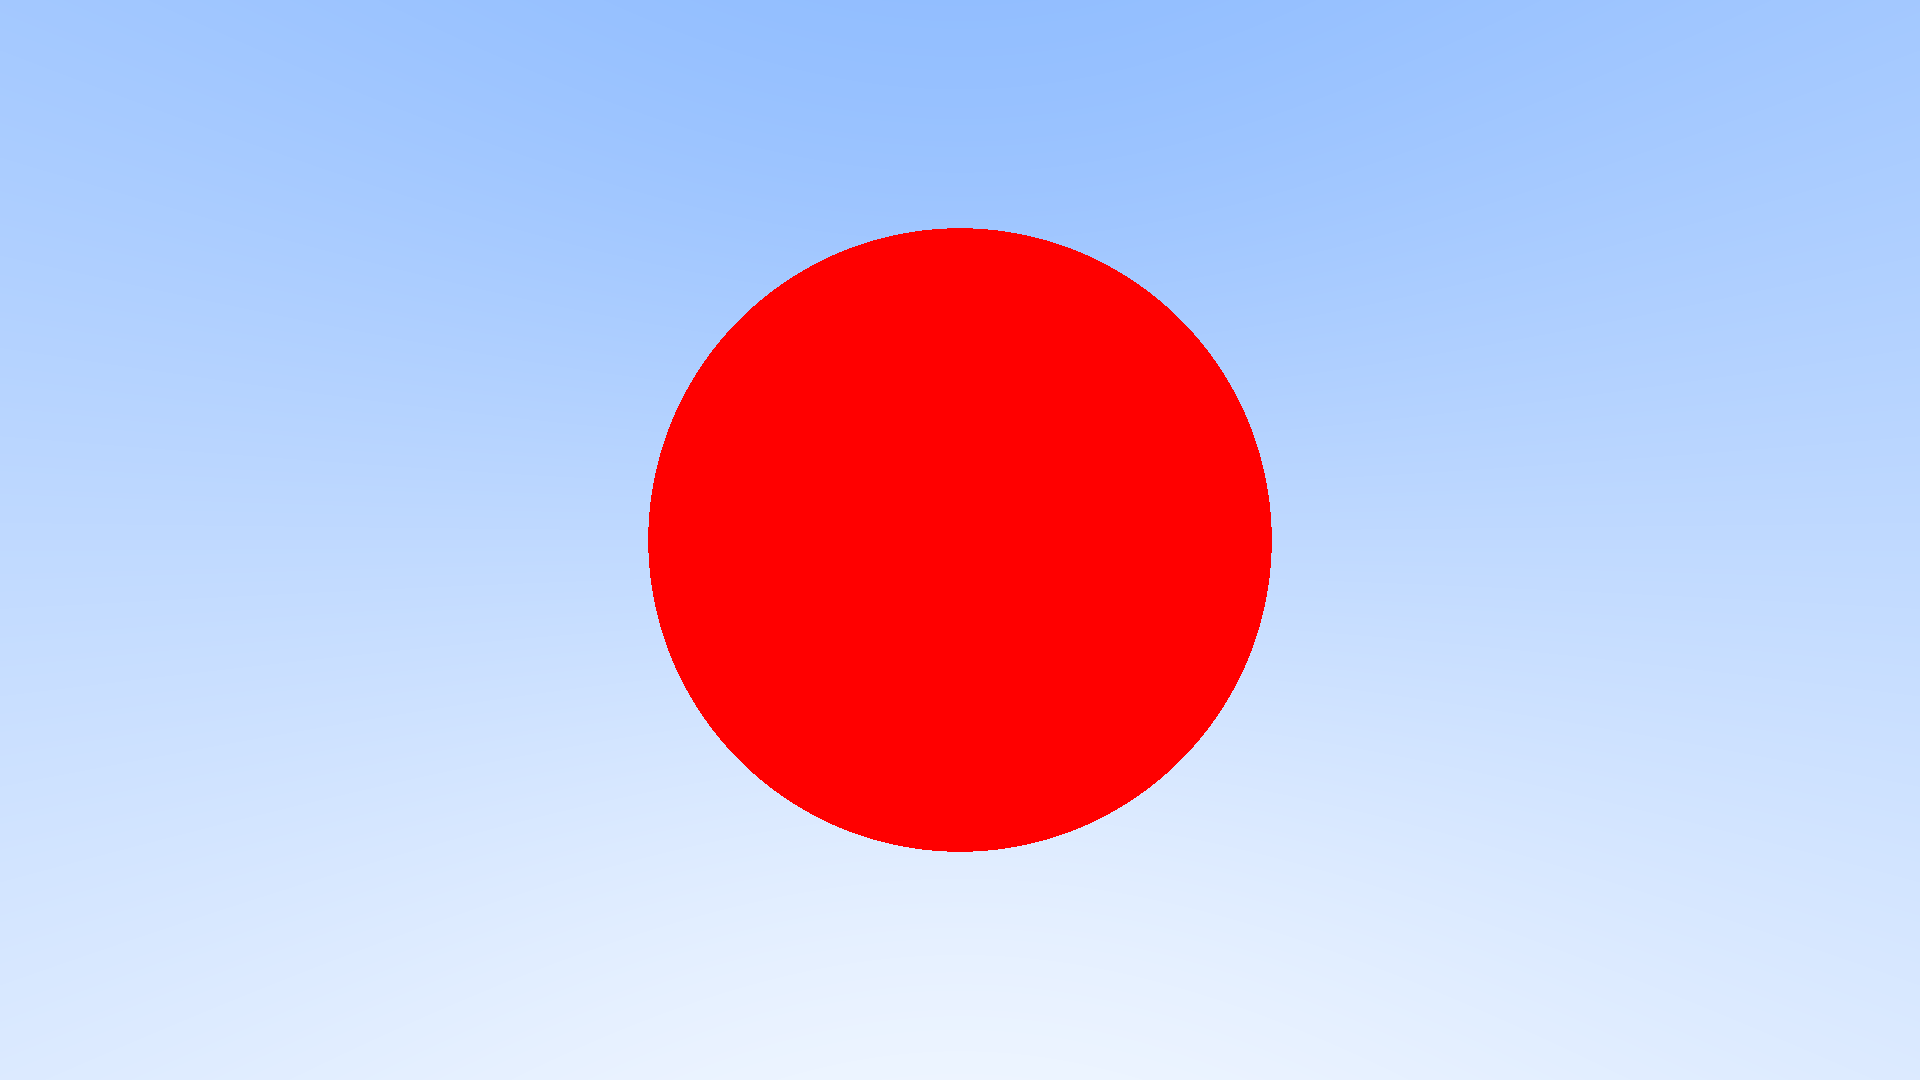
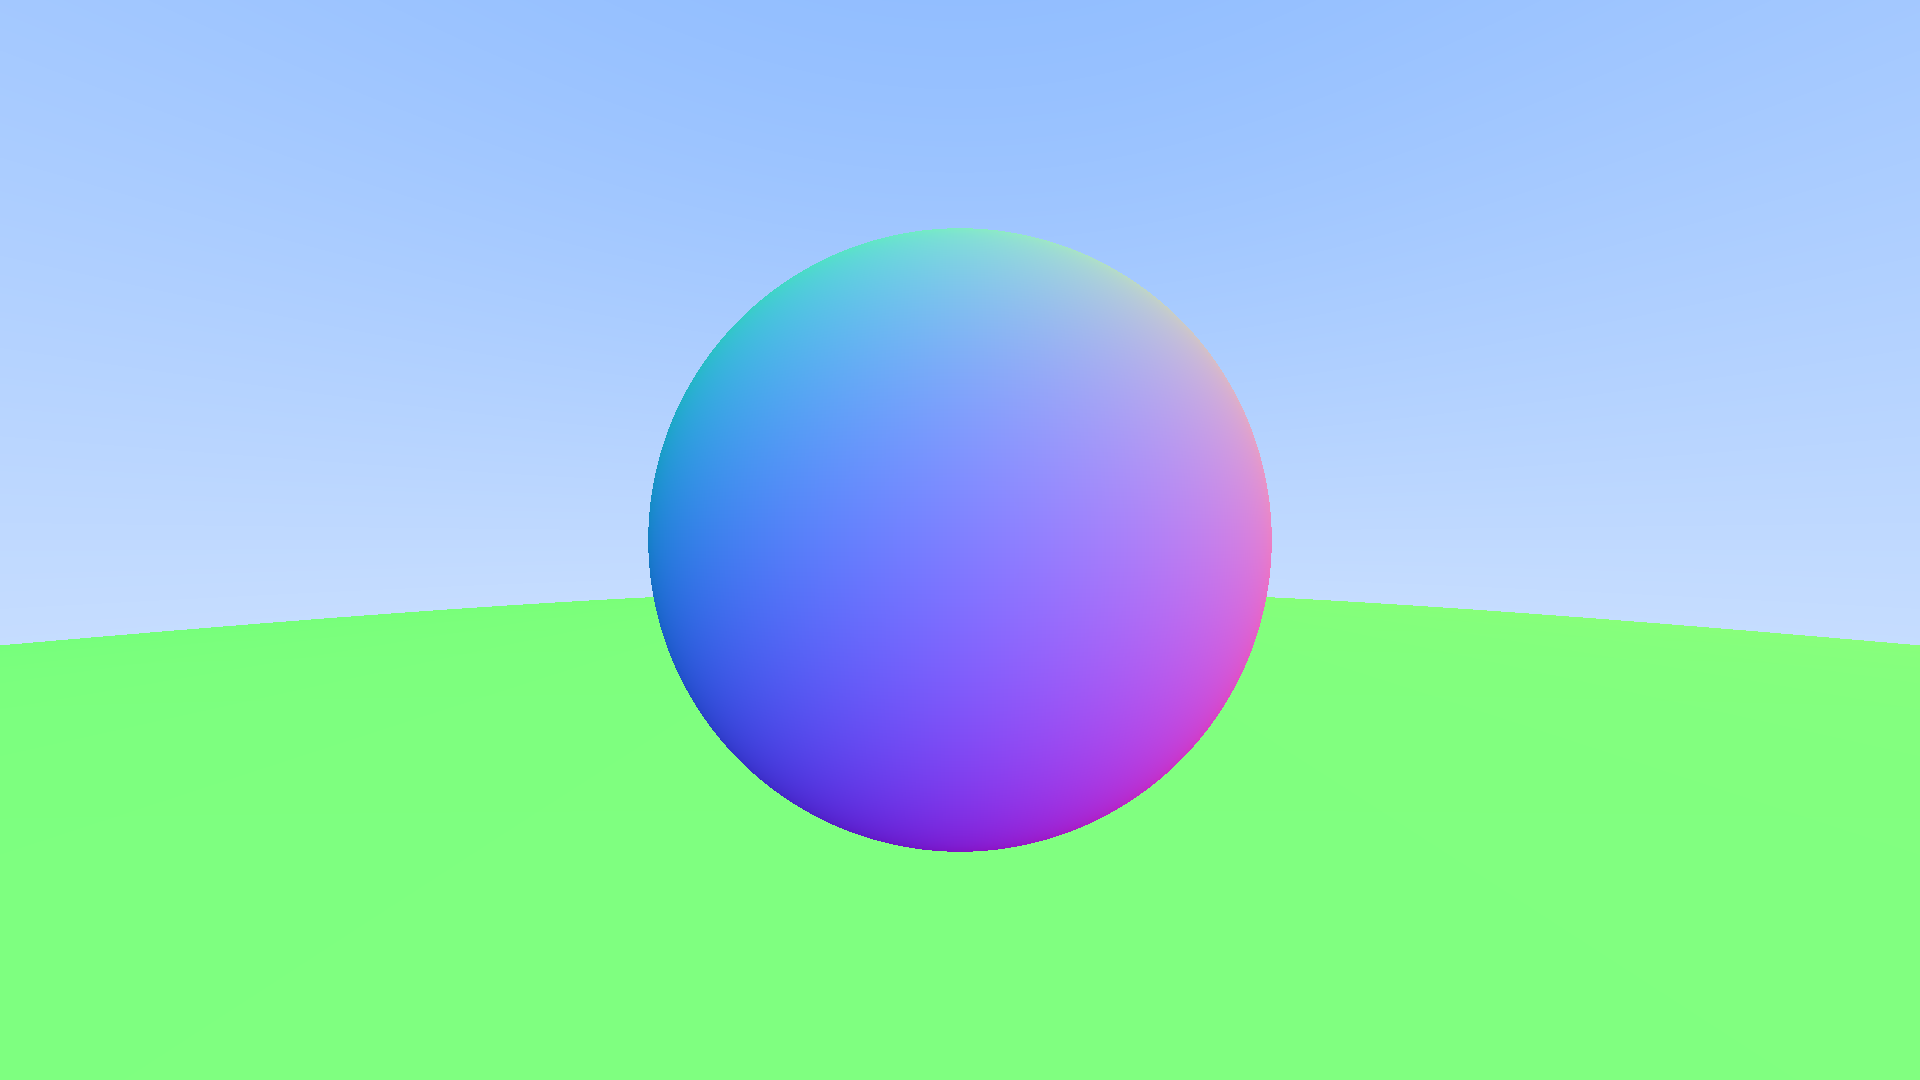
v0.2完善了求交检测逻辑，增加了物体列表，可以向场景中添加多个物体，对代码逻辑进行了重构

diff --git a/src/main.cpp b/src/main.cpp
@@ -1,22 +1,14 @@
 #define STB_IMAGE_WRITE_IMPLEMENTATION
-#include <iostream>
-#include <vector>
 
-#include "color.h"
-#include "Ray.h"
-#include "stb_image_write.h"
+#include "common.h"
+#include "Hit.h"
+#include "HittableList.h"
+#include "Sphere.h"
 
-bool hit_sphere(const Point3& center, double radius, const Ray& r) {
-    Vec3 oc = center - r.origin();
-    auto a = dot(r.direction(), r.direction());
-    auto b = -2.0 * dot(oc, r.direction());
-    auto c = dot(oc, oc) - radius * radius;
-    return b * b - 4 * a * c >= 0;
-}
-
-Color ray_color(const Ray& r) {
-    if (hit_sphere(Point3(0, 0, -1), 0.5, r)) {
-        return {1, 0, 0};
+Color ray_color(const Ray& r, const Hittable& world) {
+    HitLoad rec;
+    if (world.hit(r, Interval(0, INF), rec)) {
+        return 0.5 * (rec.n + Color(1, 1, 1));
     }
     Vec3 normal_dir = normalize(r.direction());
     auto a = 0.5 * (normal_dir.y() + 1.0);
@@ -29,6 +21,12 @@ int main() {
     int image_width = 1920;
     int image_height = static_cast<int>(image_width / aspect_ratio);
     image_height = (image_height < 1) ? 1: image_height;
+
+    //World
+    HittableList world;
+
+    world.add(make_shared<Sphere>(Point3(0, 0, -1), 0.5));
+    world.add(make_shared<Sphere>(Point3(0, -100.5, -1), 100));
 
     //Camera
     auto focal_length = 1.0;
@@ -56,14 +54,14 @@ int main() {
             Vec3 ray_direction = pixel_center - camera_center;
 
             Ray r(camera_center, ray_direction);
-            Color pixel_color = ray_color(r);
+            Color pixel_color = ray_color(r, world);
             int index = (j * image_width + i) * 3;
             image[index] = static_cast<unsigned char>(255.999 * pixel_color.x());
             image[index + 1] = static_cast<unsigned char>(255.999 * pixel_color.y());
             image[index + 2] = static_cast<unsigned char>(255.999 * pixel_color.z());
         }
     }
-    stbi_write_png("result/image.png", image_width, image_height, 3, image.data(), image_width * 3);
+    stbi_write_png("image.png", image_width, image_height, 3, image.data(), image_width * 3);
     std::clog << "\rDone.        \n";
     return 0;
 

diff --git a/src/world/HittableList.h b/src/world/HittableList.h
@@ -1,0 +1,40 @@
+//
+// Created by $yujinxiang on 2025/1/14.
+//
+
+#ifndef HITTABLELIST_H
+#define HITTABLELIST_H
+
+#include "common.h"
+#include "Hit.h"
+
+#include <memory>
+#include <vector>
+
+
+class HittableList : public Hittable {
+public:
+    HittableList() = default;
+    explicit HittableList(const shared_ptr<Hittable>& object) { add(object); }
+    HittableList(std::initializer_list<shared_ptr<Hittable>> list);
+
+    void add(const shared_ptr<Hittable>& object);
+    void clear();
+
+    /*
+     * 判断光线是否与列表中的物体相交, 如果有相交的物体返回true；
+     * param:
+     * @r: 光线
+     * @t_min: 相交区间最小值
+     * @t_max: 相交区间最大值
+     * @rec: 光线与物体相交时的信息载体
+     */
+    bool hit(const Ray& r, const Interval &tRay, HitLoad &rec) const override;
+
+private:
+    std::vector<shared_ptr<Hittable>> objects;
+};
+
+
+
+#endif //HITTABLELIST_H

diff --git a/src/world/Hit.h b/src/world/Hit.h
@@ -1,0 +1,32 @@
+//
+// Created by $yujinxiang on 2025/1/14.
+//
+
+#ifndef HIT_H
+#define HIT_H
+
+#include "common.h"
+
+struct HitLoad {
+    Point3 p;        //hit point
+    Vec3 n;          //normal vector
+    double t = 0.0;
+    bool front_face;      // 判断光线从物体外来还是从物体内来
+
+    void set_face_normal(const Ray& r, const Vec3& outward_normal) {
+        front_face = dot(r.direction(), outward_normal) < 0;
+        n = front_face ? outward_normal : -outward_normal;   //假定法线方向垂直于物体表面向外，光线从外来则法线方向不变，光线从内来则法线方向取反
+    }
+};
+
+/*
+    * Hittable class：定义光线与物体碰撞的函数接口
+*/
+class Hittable {
+public:
+    virtual ~Hittable() = default;
+    virtual bool hit(const Ray& r, const Interval& tRay, HitLoad &rec) const = 0;
+
+};
+
+#endif //HIT_H

diff --git a/src/world/HittableList.cpp b/src/world/HittableList.cpp
@@ -1,0 +1,36 @@
+//
+// Created by $yujinxiang on 2025/1/14.
+//
+
+#include "HittableList.h"
+
+HittableList::HittableList(const std::initializer_list<shared_ptr<Hittable>> list) {
+    for (auto& obj: list) {
+        add(obj);
+    }
+}
+
+void HittableList::add(const shared_ptr<Hittable>& object) {
+    objects.push_back(object);
+}
+
+void HittableList::clear() {
+    objects.clear();
+}
+
+
+bool HittableList::hit(const Ray &r, const Interval &tRay, HitLoad &rec) const {
+    HitLoad temp_rec;
+    bool hit_anything = false;
+    double closest_so_far = tRay.max;
+
+    for (const auto& object: objects) {
+        if (object->hit(r, Interval(tRay.min, closest_so_far), temp_rec)) {
+            hit_anything = true;
+            closest_so_far = temp_rec.t;
+            rec = temp_rec;
+        }
+    }
+
+    return hit_anything;
+}

diff --git a/src/world/Sphere.cpp b/src/world/Sphere.cpp
@@ -1,0 +1,33 @@
+//
+// Created by $yujinxiang on 2025/1/14.
+//
+
+#include "Sphere.h"
+#include "../ray/Ray.h"
+
+bool Sphere::hit(const Ray &r, const Interval &tRay, HitLoad &rec) const {
+    Vec3 oc = center - r.origin();
+    auto a = dot(r.direction(), r.direction());
+    auto h = dot(r.direction(), oc);          //b = -2h
+    auto c = dot(oc, oc) - radius * radius;
+    double delta = h * h -  a * c;
+
+    if (delta < 0)
+        return false;
+
+    double sqrtd = std::sqrt(delta);
+    double root = (h - sqrtd) / a;
+
+    if (!tRay.surround(root)) {
+        root = (h + sqrtd) / a;
+        if (!tRay.surround(root))
+            return false;
+    }
+
+    rec.t = root;
+    rec.p = r.at(root);
+    Vec3 outwardNormal = (rec.p - center) / radius;
+    rec.set_face_normal(r, outwardNormal);
+
+    return true;
+}

diff --git a/src/math/Interval.h b/src/math/Interval.h
@@ -1,0 +1,42 @@
+//
+// Created by $yujinxiang on 2025/1/14.
+//
+
+#ifndef INTERVAL_H
+#define INTERVAL_H
+
+#include "common.h"
+
+class Interval {
+public:
+    double min, max;
+
+    /*
+     * 默认区间
+     */
+    Interval() : min(INF), max(-INF) {}
+
+    Interval(double min, double max): min(min), max(max) {}
+
+    [[nodiscard]] double size() const {
+        return max - min + 1;
+    }
+
+    [[nodiscard]] bool contains(double x) const {
+        return x >= min && x <= max;
+    }
+
+    [[nodiscard]] bool surround(double x) const {
+        return x > min && x < max;
+    }
+
+    static Interval empty() {
+        return {INF, -INF};
+    }
+
+    static Interval universe() {
+        return {-INF, INF};
+    }
+};
+
+#endif //INTERVAL_H

diff --git a/src/utils/common.h b/src/utils/common.h
@@ -1,0 +1,31 @@
+//
+// Created by $yujinxiang on 2025/1/14.
+//
+
+#ifndef COMMON_H
+#define COMMON_H
+
+#include <iostream>
+#include <memory>
+#include <vector>
+#include <cmath>
+
+using std::make_shared;
+using std::shared_ptr;
+using std::unique_ptr;
+using std::weak_ptr;
+
+constexpr double INF = std::numeric_limits<double>::infinity();
+constexpr double PI = 3.1415926535897932385;
+
+inline double degreesToRadians(const double degrees) {
+    return degrees * PI / 180.0;
+}
+
+#include "Color.h"
+#include "Ray.h"
+#include "Vec3.h"
+#include "stb_image_write.h"
+#include "Interval.h"
+
+#endif //COMMON_H

diff --git a/src/world/Sphere.h b/src/world/Sphere.h
@@ -1,0 +1,26 @@
+//
+// Created by $yujinxiang on 2025/1/14.
+//
+
+#ifndef SPHERE_H
+#define SPHERE_H
+#include "../math/Vec3.h"
+#include "Hit.h"
+
+
+class Ray;
+
+class Sphere : public Hittable {
+public:
+    Sphere(const Point3& center, double radius) : center(center), radius(radius) {}
+
+    bool hit(const Ray& r, const Interval& tRay, HitLoad& rec) const override;
+
+private:
+    Point3 center;
+    double radius;
+};
+
+
+
+#endif //SPHERE_H

diff --git a/src/color/Color.h b/src/color/Color.h
@@ -5,7 +5,6 @@
 #ifndef COLOR_H
 #define COLOR_H
 
-#include <iostream>
 #include "Vec3.h"
 
 using Color = Vec3;
